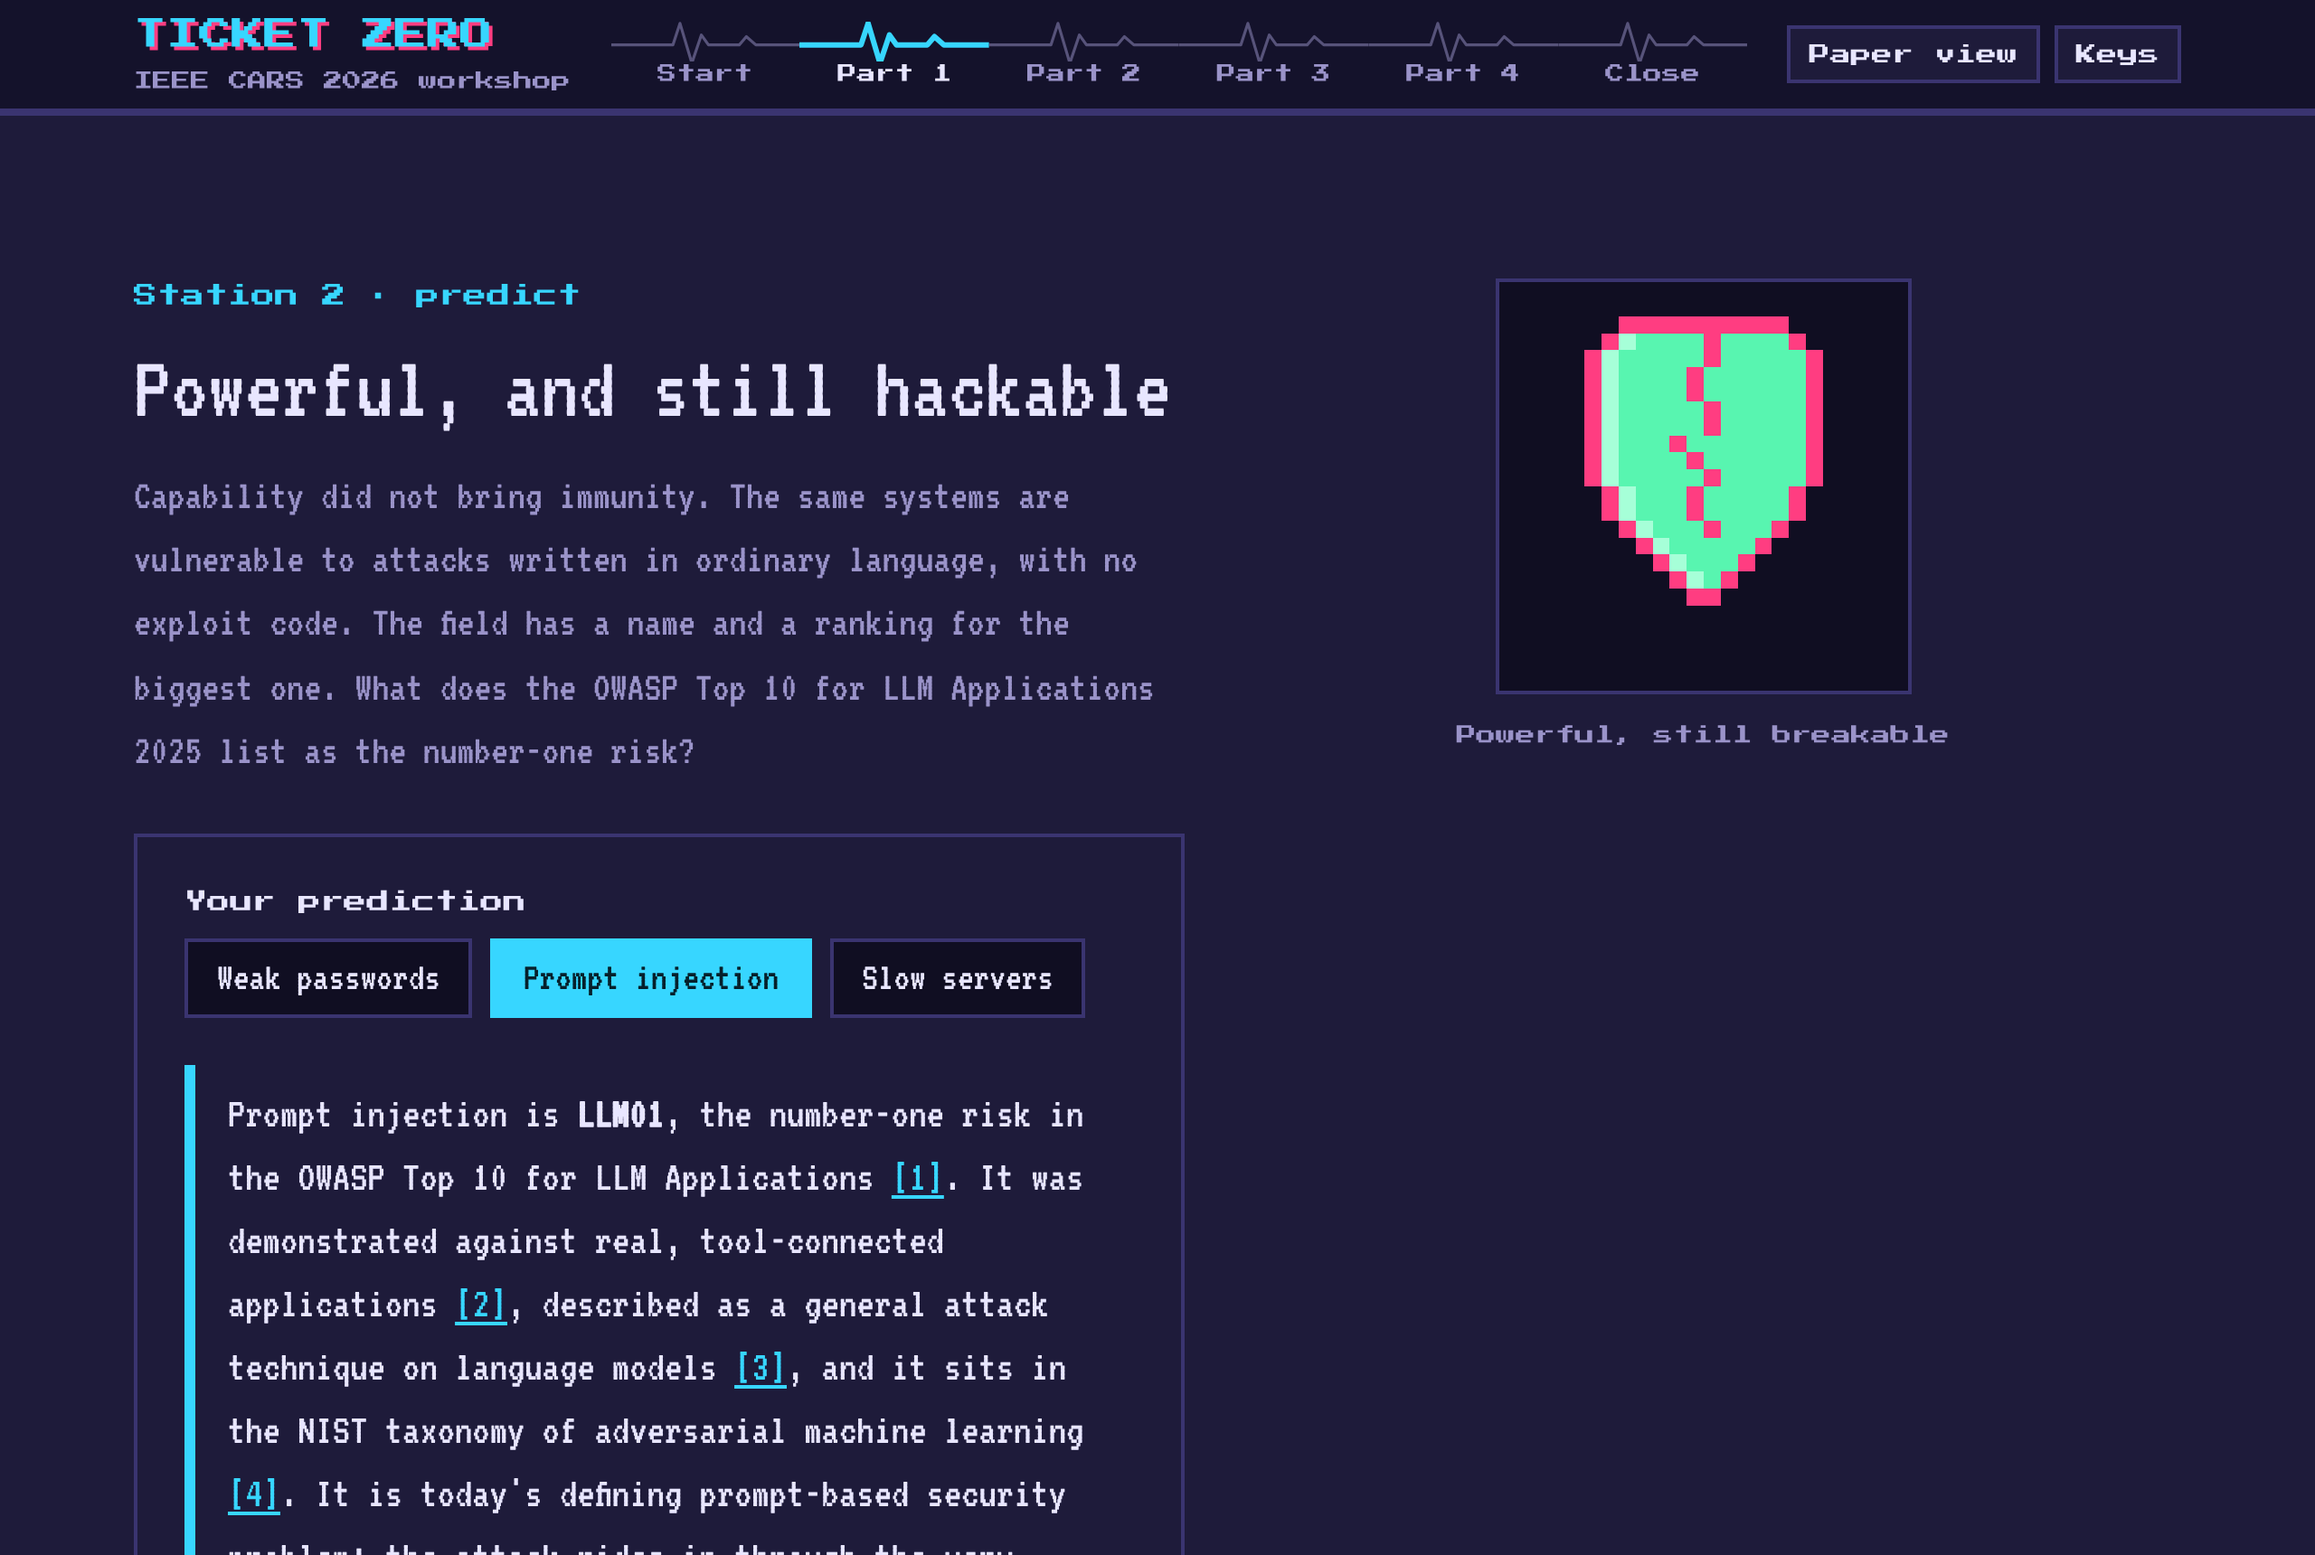
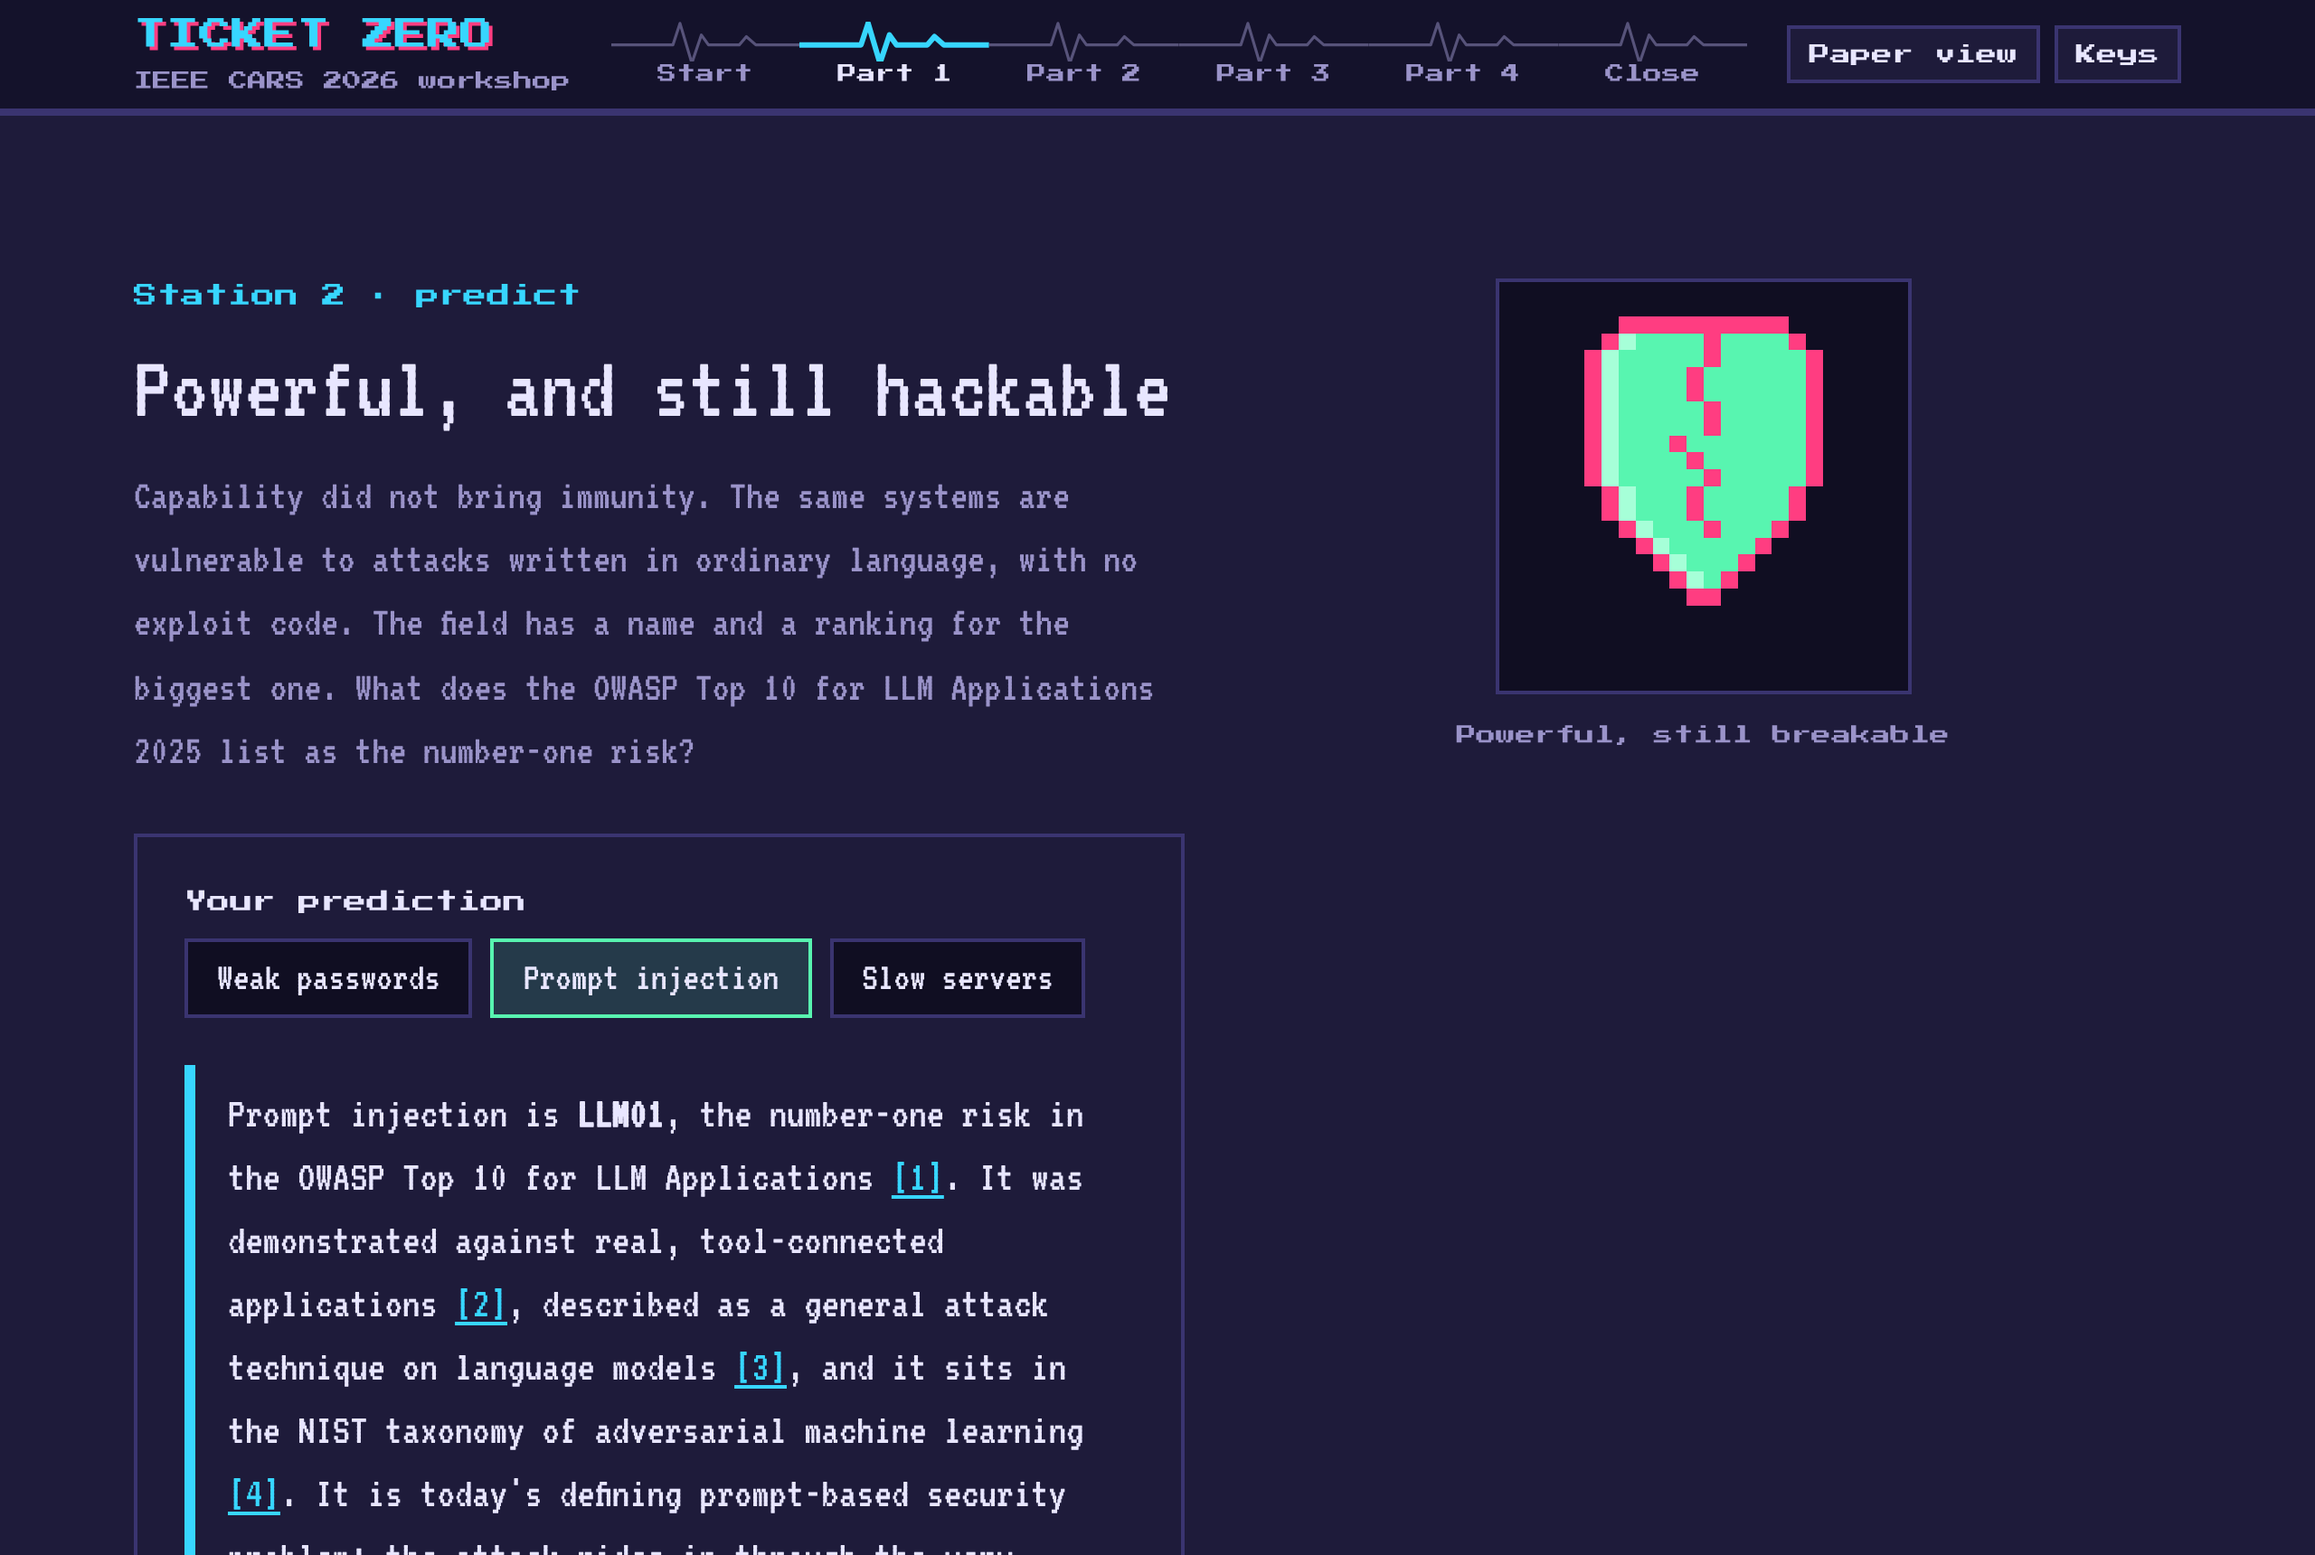
Predictions start closed and give right/wrong feedback
- Reveal boxes no longer open on page load; each prediction is closed
  until answered. Clicking an option marks it right or wrong, highlights
  the correct answer, then opens that question's reveal
- Answers are still recorded for the close-page debrief
- Clarify the Part 3 blocklist options so one answer is clearly correct

Changed region(s): [[0.1875, 0.5855, 0.375, 0.6779]]

diff --git a/docs/assets/site.js b/docs/assets/site.js
@@ -58,6 +58,30 @@
     var prev = store.get("poll:" + key, null);
     if (prev !== null) choose(prev, true);
   }
+  /* Prediction with feedback: every box starts closed. On the first click the
+     chosen option is marked right or wrong, the correct one is highlighted, and
+     only then is the reveal opened. Nothing is replayed on load, so the boxes
+     are always closed until the participant actually answers. The answer is
+     still recorded for the debrief. */
+  function predict(pollEl, revealEl, key, correct) {
+    if (!pollEl) return;
+    var btns = Array.prototype.slice.call(pollEl.querySelectorAll("button[data-value]"));
+    var done = false;
+    btns.forEach(function (b) {
+      b.addEventListener("click", function () {
+        if (done) return; done = true;
+        var v = b.getAttribute("data-value");
+        btns.forEach(function (x) {
+          var xv = x.getAttribute("data-value");
+          if (correct && xv === correct) x.classList.add("right");
+          else if (xv === v) x.classList.add("wrong");
+          x.setAttribute("aria-pressed", String(xv === v));
+        });
+        store.set("poll:" + key, v);
+        if (revealEl) reveal(revealEl);
+      });
+    });
+  }
 
   /* ---------- theme (night default, paper optional) ---------- */
   function applyTheme(t) {
@@ -197,5 +221,5 @@
     b.addEventListener("click", function () { var first = document.querySelector("[data-station]"); if (first) first.scrollIntoView({ behavior: reduceMotion ? "auto" : "smooth", block: "start" }); });
   });
 
-  window.TZSite = { REPO: REPO, APP_URL: APP_URL, PAGES: PAGES, page: PAGES[pageIndex], reduceMotion: reduceMotion, store: store, el: el, reveal: reveal, poll: poll, wait: wait, toggleTheme: toggleTheme };
+  window.TZSite = { REPO: REPO, APP_URL: APP_URL, PAGES: PAGES, page: PAGES[pageIndex], reduceMotion: reduceMotion, store: store, el: el, reveal: reveal, poll: poll, predict: predict, wait: wait, toggleTheme: toggleTheme };
 })();

diff --git a/docs/part3.html b/docs/part3.html
@@ -36,8 +36,8 @@
         <p class="poll-label">Your prediction</p>
         <div class="poll" id="poll1">
           <button type="button" data-value="a">Yes, it blocks it</button>
-          <button type="button" data-value="b">No, the disguise slips past</button>
-          <button type="button" data-value="c">It blocks everything, including real customers</button>
+          <button type="button" data-value="b">No, the disguise slips right past</button>
+          <button type="button" data-value="c">Only with a long enough phrase list</button>
         </div>
         <div class="takeaway" id="t1" hidden>A blocklist catches only the undisguised attempts. Authority framing, a fake system tag, an encoded payload, or data-planted instructions all carry the same objective past it, and it also rejects legitimate customers whose wording happens to match. It is the one control in the game that is there to be defeated. The useful controls act on the architecture.</div>
       </div>
@@ -87,7 +87,7 @@
 <script src="assets/pixelart.js"></script>
 <script src="assets/agent.js"></script>
 <script>
-  TZSite.poll(document.getElementById("poll1"), "p3-s1", function () { TZSite.reveal(document.getElementById("t1")); });
+  TZSite.predict(document.getElementById("poll1"), document.getElementById("t1"), "p3-s1", "b");
   TZAgent.mount(document.getElementById("agent-demo"));
 </script>
 </body>

diff --git a/docs/part1.html b/docs/part1.html
@@ -140,10 +140,10 @@
 <script src="assets/bot.js"></script>
 <script src="assets/pixelart.js"></script>
 <script>
-  TZSite.poll(document.getElementById("poll-cap"), "p1-cap", function () { TZSite.reveal(document.getElementById("t-cap")); });
-  TZSite.poll(document.getElementById("poll-sec"), "p1-sec", function () { TZSite.reveal(document.getElementById("t-sec")); });
-  TZSite.poll(document.getElementById("poll-inj"), "p1-inj", function () { TZSite.reveal(document.getElementById("t-inj")); });
-  TZSite.poll(document.getElementById("poll-ticket"), "p1-ticket", function () { TZSite.reveal(document.getElementById("t-ticket")); });
+  TZSite.predict(document.getElementById("poll-cap"), document.getElementById("t-cap"), "p1-cap", "b");
+  TZSite.predict(document.getElementById("poll-sec"), document.getElementById("t-sec"), "p1-sec", "b");
+  TZSite.predict(document.getElementById("poll-inj"), document.getElementById("t-inj"), "p1-inj", "b");
+  TZSite.predict(document.getElementById("poll-ticket"), document.getElementById("t-ticket"), "p1-ticket", "b");
   (function () {
     var on = false, btn = document.getElementById("injectBtn");
     btn.addEventListener("click", function () {

diff --git a/docs/assets/site.css b/docs/assets/site.css
@@ -116,6 +116,8 @@ code { font-family: var(--term); background: var(--bg2); border: 1px solid var(-
 .poll button { font-family: var(--term); font-size: 1.05rem; color: var(--ink); background: var(--bg2); border: 2px solid var(--line); padding: 9px 16px; cursor: pointer; }
 .poll button:hover { border-color: var(--accent); }
 .poll button[aria-pressed="true"] { background: var(--accent); border-color: var(--accent); color: var(--on-accent); }
+.poll button.right { background: rgba(88, 245, 176, 0.14); border-color: var(--mint); color: var(--ink); }
+.poll button.wrong { background: rgba(255, 61, 129, 0.14); border-color: var(--magenta); color: var(--ink); }
 .poll-label { font-family: var(--disp); font-size: 0.6rem; line-height: 1.6; margin-bottom: 10px; }
 .takeaway { margin: 26px 0 0; font-size: 1.15rem; line-height: 1.45; padding: 10px 0 10px 18px; border-left: 6px solid var(--accent); max-width: 68ch; }
 .takeaway[hidden] { display: none; }

diff --git a/docs/part2.html b/docs/part2.html
@@ -83,7 +83,7 @@
 <script src="assets/pixelart.js"></script>
 <script src="assets/agent.js"></script>
 <script>
-  TZSite.poll(document.getElementById("poll1"), "p2-s1", function () { TZSite.reveal(document.getElementById("t1")); });
+  TZSite.predict(document.getElementById("poll1"), document.getElementById("t1"), "p2-s1", "b");
   TZAgent.mount(document.getElementById("agent-demo"), { defenses: false });
 </script>
 </body>
